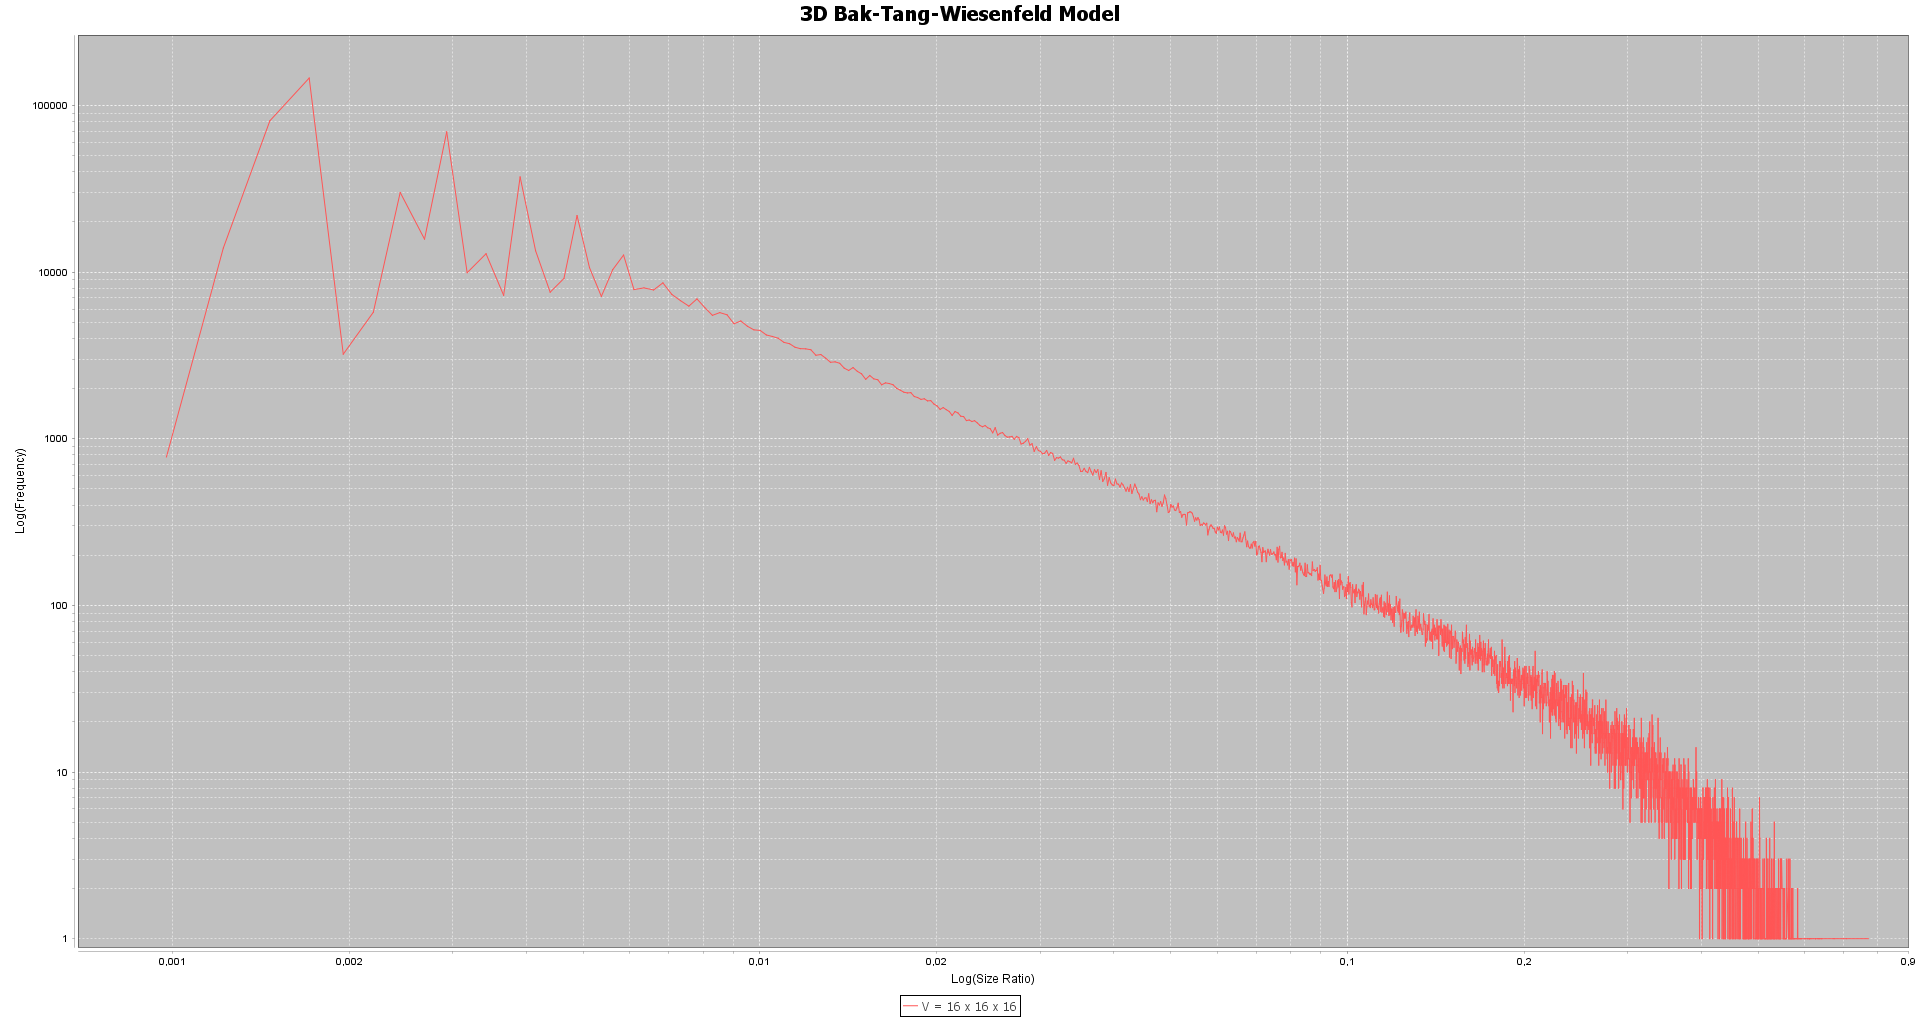
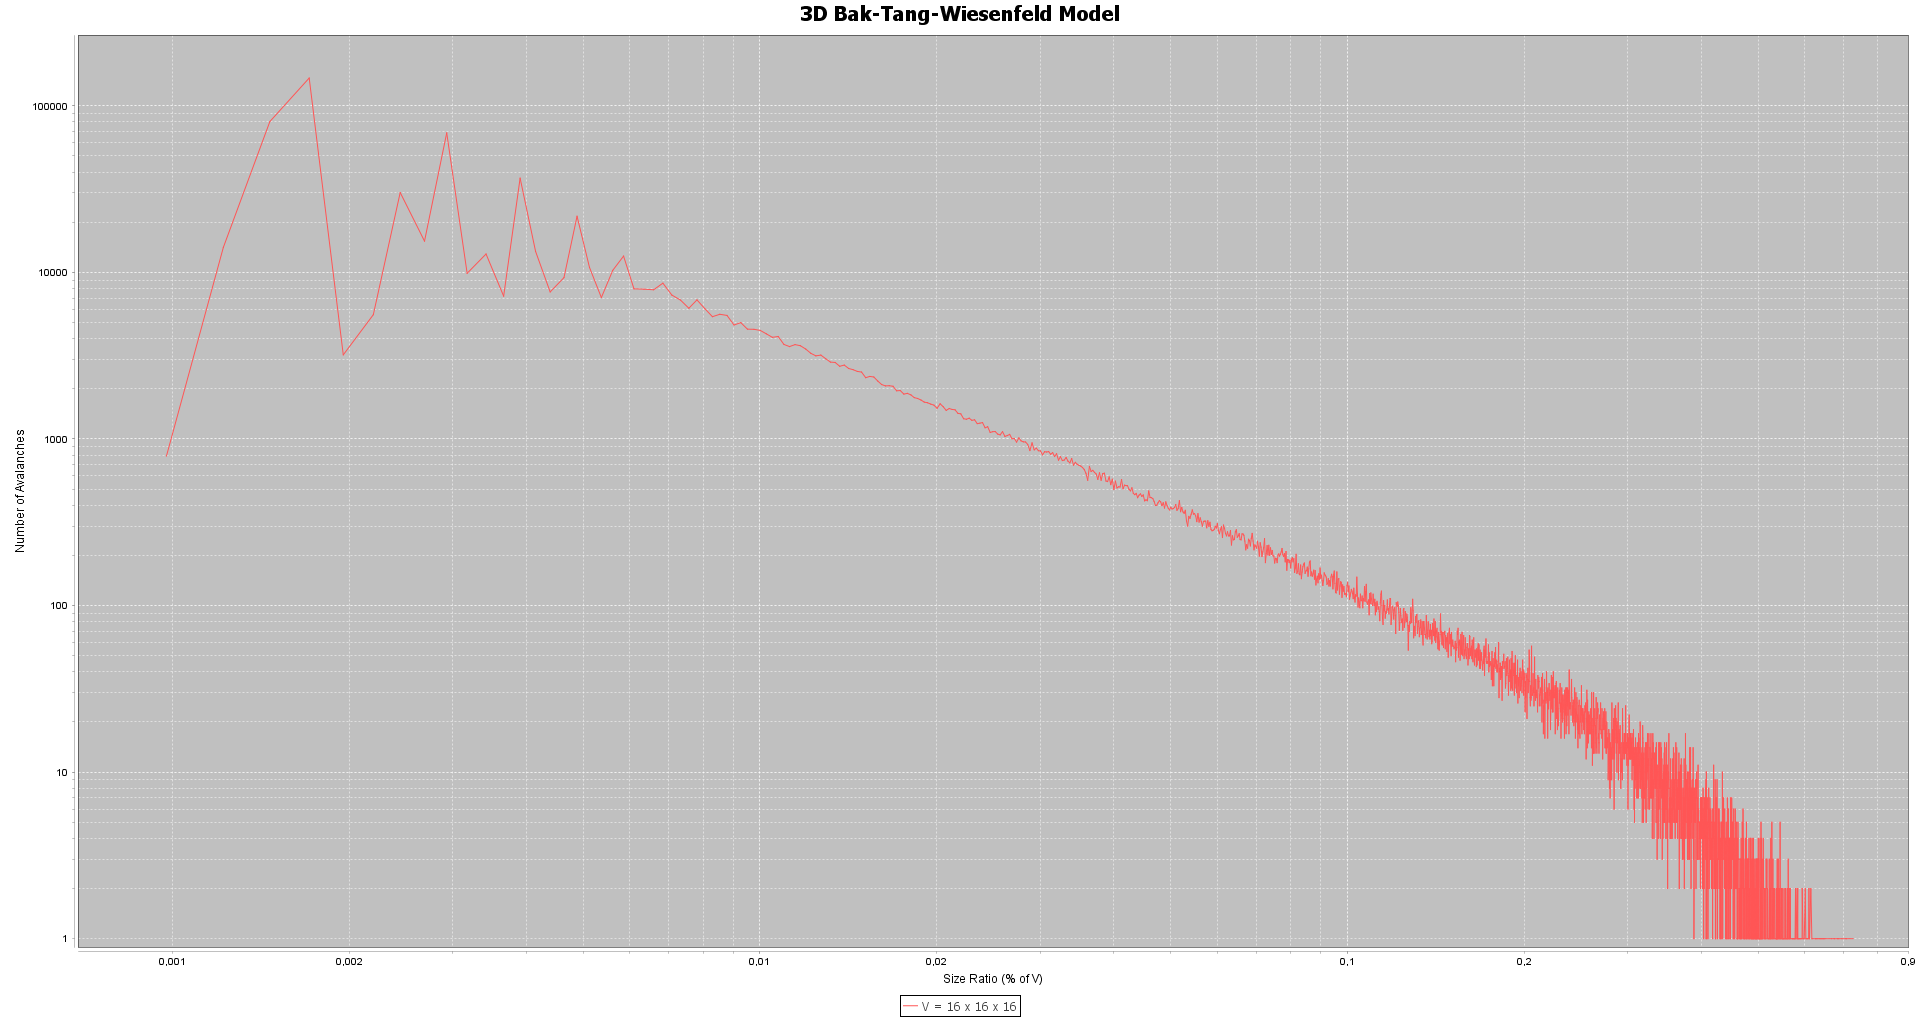
Test Snapshot Correction

diff --git a/src/TestClass.java b/src/TestClass.java
@@ -39,8 +39,8 @@ class LogAxis2DChart extends ApplicationFrame {
 																false);
 		
 		final XYPlot plot = chart.getXYPlot();
-        final NumberAxis domainAxis = new LogarithmicAxis("Log(Size Ratio)");
-        final NumberAxis rangeAxis = new LogarithmicAxis("Log(Frequency)");
+        final NumberAxis domainAxis = new LogarithmicAxis("Size Ratio (% of V)");
+        final NumberAxis rangeAxis = new LogarithmicAxis("Number of Avalanches");
         plot.setDomainAxis(domainAxis);
         plot.setRangeAxis(rangeAxis);
         final ChartPanel chartPanel = new ChartPanel(chart);
